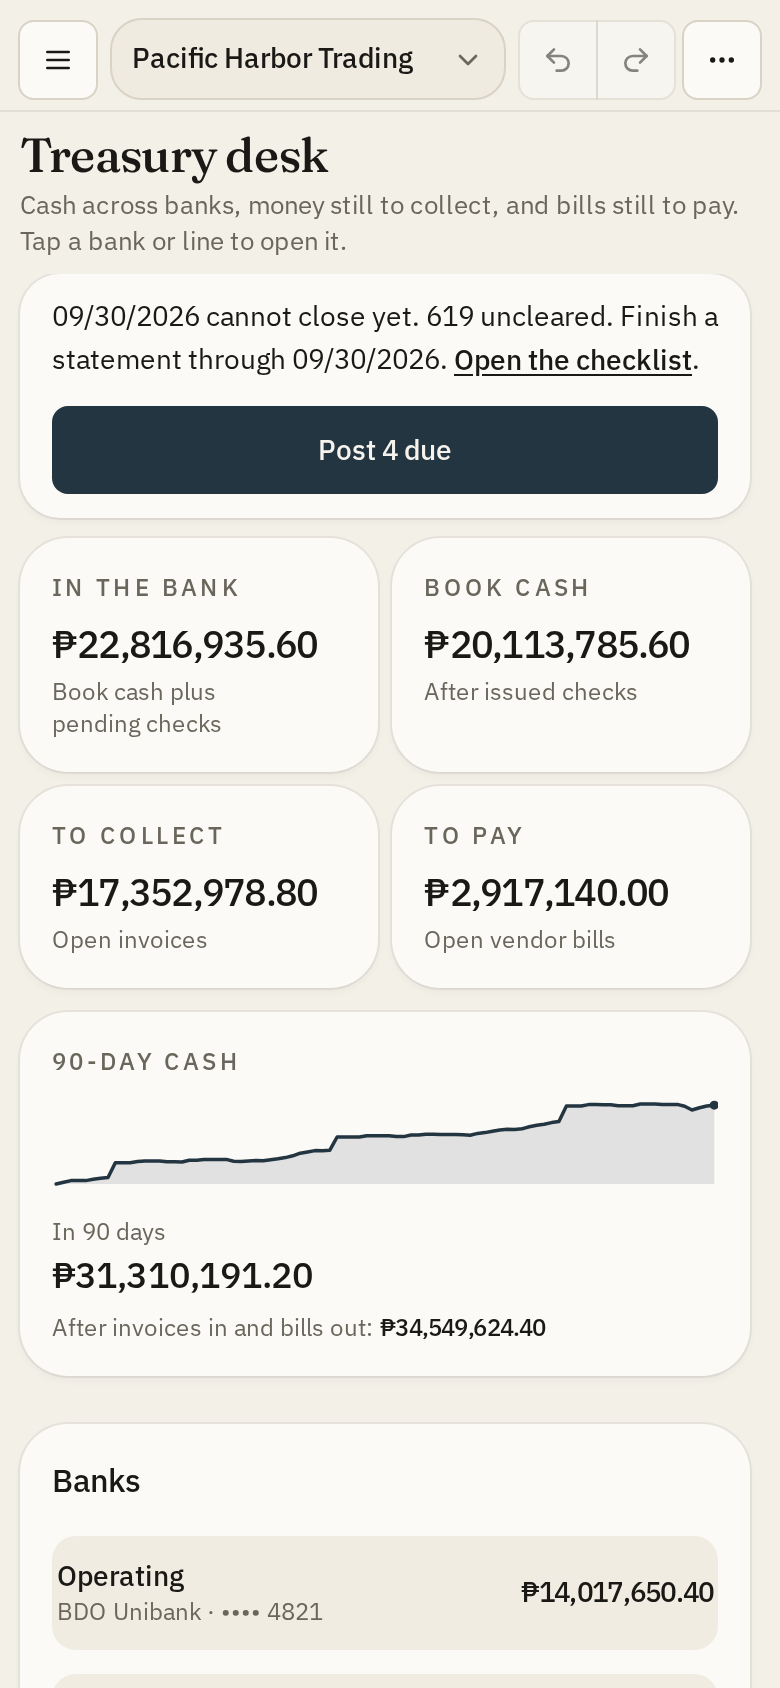
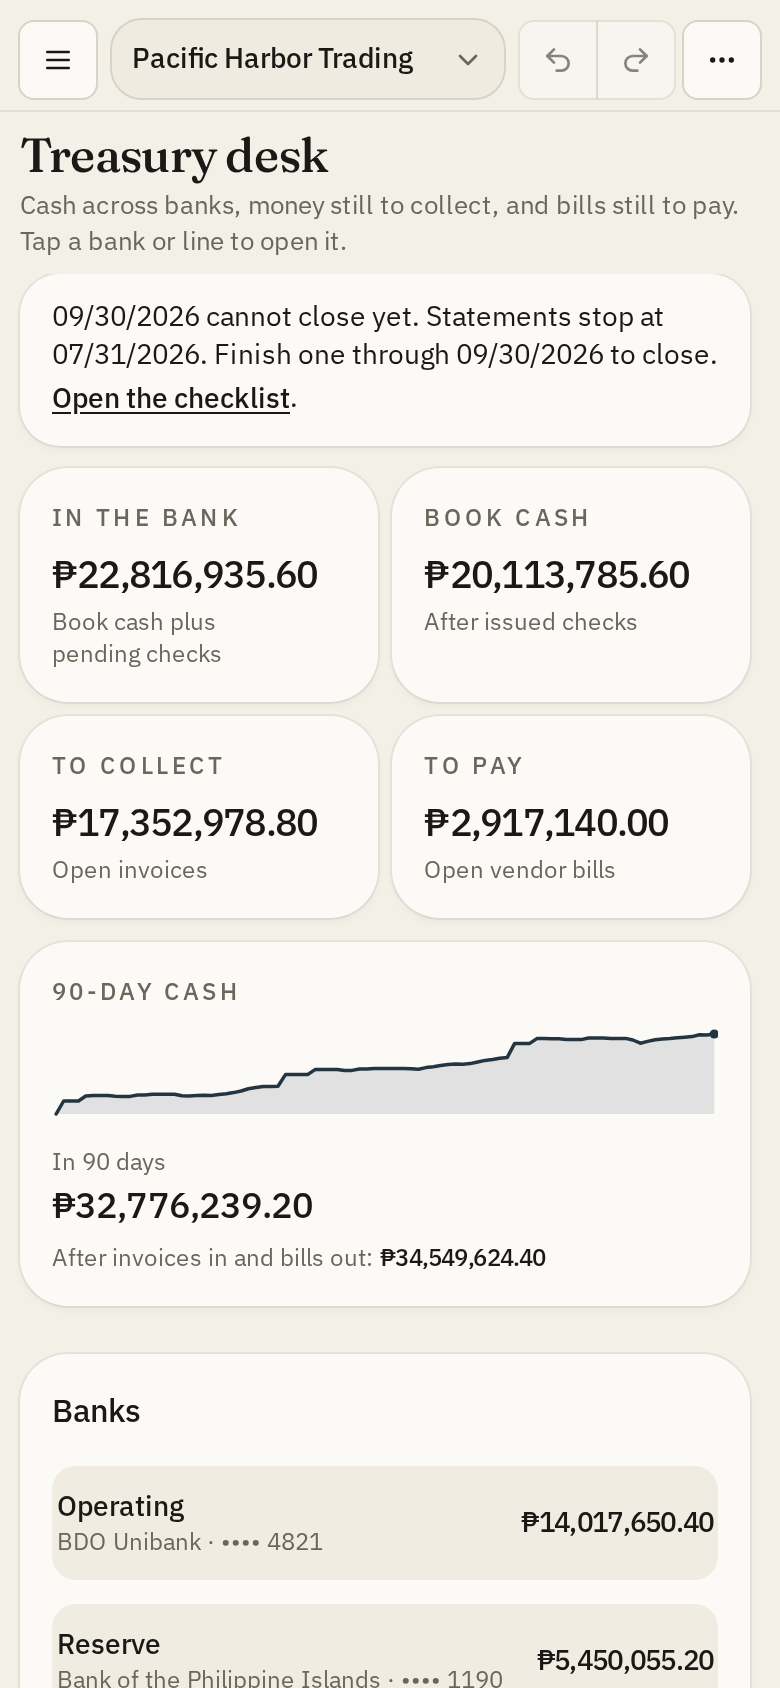
v3.63.58: stop sample double payroll, covered forecast, honest close and Open

diff --git a/src/routes/settings.tsx b/src/routes/settings.tsx
@@ -22,7 +22,7 @@ import { Input } from "@/components/ui/input";
 import { Select, SelectContent, SelectItem, SelectTrigger, SelectValue } from "@/components/ui/select";
 import { Switch } from "@/components/ui/switch";
 import { canPickBackupFolder, chooseBackupFolder, clearBackupFolder, getBackupFolderName, hydrateBackupFolder, saveCompanyFilePreferFolder, useBackupFolderName } from "@/lib/finance/backup-folder";
-import { backupPayload } from "@/lib/finance/export";
+import { backupPayload, parseBackupFile } from "@/lib/finance/export";
 import { listLocalBackups, readLocalBackup } from "@/lib/finance/local-backup";
 import { isOutdatedPacificHarborSample, SAMPLE_COMPANY_ID } from "@/lib/finance/seed";
 import { fitColumnWidth } from "@/lib/finance/fit-column";
@@ -190,6 +190,7 @@ function SettingsPage() {
   const fileRef = useRef<HTMLInputElement>(null);
   const mergeRef = useRef<HTMLInputElement>(null);
   const pendingOpenRef = useRef<string | null>(null);
+  const [openScope, setOpenScope] = useState<"company" | "workspace">("company");
   const [countryPackId, setCountryPackId] = useState("");
   /** When applying a country tax pack, also set home currency to the pack’s currency. */
   const [updateCurrencyWithPack, setUpdateCurrencyWithPack] = useState(true);
@@ -810,10 +811,14 @@ function SettingsPage() {
                 e.target.value = "";
                 if (!file) return;
                 try {
-                  pendingOpenRef.current = await file.text();
+                  const text = await file.text();
+                  const parsed = parseBackupFile(text);
+                  pendingOpenRef.current = text;
+                  setOpenScope(parsed.type);
                   setBooksConfirm({ kind: "open" });
                 } catch (err) {
                   pendingOpenRef.current = null;
+                  setOpenScope("company");
                   toast.error(err instanceof Error ? err.message : "Could not read that file.");
                 }
               }}
@@ -876,7 +881,9 @@ function SettingsPage() {
               : booksConfirm?.kind === "restore"
                 ? "Restore last local copy?"
                 : booksConfirm?.kind === "open"
-                  ? "Replace this company?"
+                  ? openScope === "workspace"
+                    ? "Replace every company?"
+                    : "Replace this company?"
                 : booksConfirm?.kind === "drop" && booksConfirm.id === SAMPLE_COMPANY_ID
                   ? "Remove the sample company?"
                   : "Remove this company?"
@@ -891,7 +898,9 @@ function SettingsPage() {
                   ? `Replaces the open company with the snapshot from ${new Date(localStamp).toLocaleString(undefined, { dateStyle: "medium", timeStyle: "short" })}. If you removed this file, it comes back. A downloaded JSON is not required.`
                   : "This browser has not saved a local copy yet."
                 : booksConfirm?.kind === "open"
-                  ? "Opens that file in place of the company you are in. Banks and entries in this file are replaced. Other companies stay. Merge is the safe import — it only adds records that are not already here."
+                  ? openScope === "workspace"
+                    ? "This file is a workspace backup. It replaces every company in this browser, not just the one you have open. Merge is the safe import — it only adds records that are not already here."
+                    : "Opens that file in place of the company you are in. Banks and entries in this file are replaced. Other companies stay. Merge is the safe import — it only adds records that are not already here."
                 : booksConfirm?.kind === "drop" && booksConfirm.id === SAMPLE_COMPANY_ID
                   ? order.length <= 1
                     ? "Deletes Pacific Harbor from this browser and opens a blank company. Restore last local copy or Reload sample brings it back."
@@ -922,6 +931,7 @@ function SettingsPage() {
         }
         onClose={() => {
           pendingOpenRef.current = null;
+          setOpenScope("company");
           setBooksConfirm(null);
         }}
         onConfirm={async () => {
@@ -948,6 +958,7 @@ function SettingsPage() {
                 const kind = importBackup(json);
                 toast.success(kind === "workspace" ? "Opened companies from that file." : "Company file opened.");
                 pendingOpenRef.current = null;
+                setOpenScope("company");
               }
             } else {
               removeCompany(booksConfirm.id);

diff --git a/src/routes/employees.tsx b/src/routes/employees.tsx
@@ -124,6 +124,9 @@ function EmployeesPage() {
   const payEmployee = useFinanceStore((s) => s.payEmployee);
   const payEmployees = useFinanceStore((s) => s.payEmployees);
   const banks = data.banks.filter((b) => !b.archived);
+  const lumpPayroll = (data.checks ?? []).some(
+    (c) => c.payee === "Staff payroll" && !c.employeeId && c.status !== "voided" && c.status !== "bounced",
+  );
 
   const [query, setQuery] = useState("");
   const [view, setView] = useListView("employees");
@@ -296,7 +299,11 @@ function EmployeesPage() {
   return (
     <AppShell
       title="Employees"
-      description="People on payroll. Keep a roster, set pay type and rate, and post paychecks to a bank — the check lands in Register like any other payment."
+      description={
+        lumpPayroll
+          ? "People on payroll. These books already pay a Staff payroll vendor lump — a paycheck here is a second run, not a replacement."
+          : "People on payroll. Keep a roster, set pay type and rate, and post paychecks to a bank — the check lands in Register like any other payment."
+      }
       actions={
         <>
           <Button
@@ -622,6 +629,7 @@ function EmployeesPage() {
             <DialogTitle>Post paycheck</DialogTitle>
             <DialogDescription>
               Writes a check from the selected bank. Hourly is hours × rate.
+              {lumpPayroll ? " This is in addition to the Staff payroll vendor lump already in the register." : ""}
               {phPayroll
                 ? " PH statutory computes SSS, PhilHealth, Pag-IBIG, and TRAIN withholding for this period."
                 : " Generic net pay only — enable Philippines payroll in Settings for statutory withholdings."}
@@ -689,7 +697,9 @@ function EmployeesPage() {
           <DialogHeader>
             <DialogTitle>Pay all active</DialogTitle>
             <DialogDescription>
-              Posts a period paycheck for each active salaried employee (weekly is 12/52 of monthly, twice a month is half). Hourly people need hours on a single slip.
+              {lumpPayroll
+                ? "These books already pay Staff payroll as a vendor lump. This posts a second set of salaried checks on top of that. Hourly people still need hours on a single slip."
+                : "Posts a period paycheck for each active salaried employee (weekly is 12/52 of monthly, twice a month is half). Hourly people need hours on a single slip."}
               {phPayroll ? " PH statutory is taken from each employee." : ""}
             </DialogDescription>
           </DialogHeader>
@@ -705,7 +715,7 @@ function EmployeesPage() {
             <Button variant="outline" onClick={() => setRunOpen(false)}>
               Cancel
             </Button>
-            <Button onClick={runPayAll}>Post pay run</Button>
+            <Button onClick={runPayAll}>{lumpPayroll ? "Post second run" : "Post pay run"}</Button>
           </DialogFooter>
         </DialogContent>
       </Dialog>

diff --git a/src/lib/finance/seed.test.ts b/src/lib/finance/seed.test.ts
@@ -1,5 +1,7 @@
 import { describe, it } from "node:test";
 import assert from "node:assert/strict";
+import { postDueRecurring } from "./actions.ts";
+import { cashForecast } from "./forecast.ts";
 import { createSeed, isOutdatedPacificHarborSample } from "./seed.ts";
 
 describe("Pacific Harbor sample", () => {
@@ -28,6 +30,22 @@ describe("Pacific Harbor sample", () => {
     const rec = data.recurrences.filter((r) => r.id.startsWith("rec-pay"));
     assert.equal(rec.length, 2);
     assert.ok(rec.every((r) => r.amount === 19_000_000));
+    assert.ok(data.recurrences.every((r) => r.nextDate >= "2027-01-01"), "seeded year is already posted");
+    assert.equal(postDueRecurring(data, "2026-09-30").posted.length, 0);
+  });
+
+  it("does not forecast budget cash that the month already posted", () => {
+    const points = cashForecast(data, 40, "2026-09-27");
+    const oct1 = points.find((p) => p.date === "2026-10-01");
+    assert.ok(oct1);
+    const pending = data.checks
+      .filter((c) => c.status === "pending" && (c.postDate || c.issueDate) === "2026-10-01")
+      .reduce((s, c) => s + c.amount, 0);
+    const bills = data.bills
+      .filter((b) => (b.status === "open" || b.status === "partial") && b.dueDate === "2026-10-01")
+      .reduce((s, b) => s + b.amount, 0);
+    assert.equal(oct1.outflows, pending + bills);
+    assert.ok(oct1.inflows >= 62_000_000, "trade-sales budget still fills a month with no matching invoices");
   });
 
   it("every journal balances", () => {
@@ -62,6 +80,20 @@ describe("Pacific Harbor sample", () => {
         receipts: Array(400),
         checks: Array(500),
         budgetItems: [{ id: "bud-pay", amount: 25_280_000 }],
+      }),
+      true,
+    );
+    assert.equal(
+      isOutdatedPacificHarborSample({
+        customers: Array(39),
+        vendors: Array(30),
+        employees: Array(14),
+        invoices: Array(500),
+        bills: Array(400),
+        receipts: Array(400),
+        checks: Array(500),
+        budgetItems: [{ id: "bud-pay", amount: 38_000_000 }],
+        recurrences: [{ id: "rec-pay1", nextDate: "2026-09-13" }],
       }),
       true,
     );

diff --git a/src/lib/finance/seed.ts b/src/lib/finance/seed.ts
@@ -121,16 +121,22 @@ export function isOutdatedPacificHarborSample(data: {
   receipts: unknown[];
   checks: unknown[];
   budgetItems?: Array<{ id?: string; amount?: number }>;
+  recurrences?: Array<{ id?: string; nextDate?: string }>;
 }): boolean {
   const docs = data.invoices.length + data.bills.length + data.receipts.length + data.checks.length;
   const payrollBudget = data.budgetItems?.find((b) => b.id === "bud-pay");
   const payrollStale = typeof payrollBudget?.amount === "number" && payrollBudget.amount < 38_000_000;
+  const seededRec = new Set(["rec-rent", "rec-pay1", "rec-pay2", "rec-power"]);
+  const recStale = (data.recurrences ?? []).some(
+    (r) => !!r.id && seededRec.has(r.id) && typeof r.nextDate === "string" && r.nextDate < "2027-01-01",
+  );
   return (
     data.customers.length < 35 ||
     data.vendors.length < 28 ||
     data.employees.length < 12 ||
     docs < 1700 ||
-    payrollStale
+    payrollStale ||
+    recStale
   );
 }
 
@@ -1810,7 +1816,7 @@ export function createSeed(): FinanceData {
       accountId: IDS.rent,
       memo: "Monthly warehouse",
       dayOfMonth: 1,
-      nextDate: "2026-09-01",
+      nextDate: "2027-01-01",
       active: true,
     },
     {
@@ -1823,7 +1829,7 @@ export function createSeed(): FinanceData {
       accountId: IDS.payroll,
       memo: "Semi-monthly payroll",
       dayOfMonth: 13,
-      nextDate: "2026-09-13",
+      nextDate: "2027-01-13",
       active: true,
     },
     {
@@ -1836,7 +1842,7 @@ export function createSeed(): FinanceData {
       accountId: IDS.payroll,
       memo: "Semi-monthly payroll",
       dayOfMonth: 27,
-      nextDate: "2026-09-27",
+      nextDate: "2027-01-27",
       active: true,
     },
     {
@@ -1849,7 +1855,7 @@ export function createSeed(): FinanceData {
       accountId: IDS.utilities,
       memo: "Meralco",
       dayOfMonth: 22,
-      nextDate: "2026-09-22",
+      nextDate: "2027-01-22",
       active: true,
     },
   ];

diff --git a/src/lib/finance/forecast.ts b/src/lib/finance/forecast.ts
@@ -14,8 +14,24 @@ function bump(map: Map<string, number>, date: string, amount: number) {
   map.set(date, (map.get(date) ?? 0) + amount);
 }
 
-export function cashForecast(data: FinanceData, days = 90): ForecastPoint[] {
-  const start = todayIso();
+/** True when that month already has a check or an open bill on this account — the budget would count it twice. */
+export function monthAlreadyHasAccountCash(data: FinanceData, accountId: string, month: string): boolean {
+  if (!accountId || month.length < 7) return false;
+  for (const chk of data.checks) {
+    if (chk.accountId !== accountId) continue;
+    if (chk.status === "voided" || chk.status === "bounced") continue;
+    if ((chk.postDate || chk.issueDate || "").slice(0, 7) === month) return true;
+  }
+  for (const bill of data.bills ?? []) {
+    if (bill.accountId !== accountId) continue;
+    if (bill.status !== "open" && bill.status !== "partial") continue;
+    if ((bill.dueDate || bill.date || "").slice(0, 7) === month) return true;
+  }
+  return false;
+}
+
+export function cashForecast(data: FinanceData, days = 90, asOf = todayIso()): ForecastPoint[] {
+  const start = asOf;
   const thisMonth = start.slice(0, 7);
   let cash = totalCash(data) + pendingChecksTotal(data);
   const points: ForecastPoint[] = [];
@@ -45,7 +61,7 @@ export function cashForecast(data: FinanceData, days = 90): ForecastPoint[] {
       for (const item of data.budgetItems) {
         if (item.startMonth > month) continue;
         if (item.kind === "inflow") inflows += item.amount;
-        else outflows += item.amount;
+        else if (!monthAlreadyHasAccountCash(data, item.accountId ?? "", month)) outflows += item.amount;
       }
     }
 

diff --git a/src/routes/reports.tsx b/src/routes/reports.tsx
@@ -821,6 +821,9 @@ function PayrollPanel({
         </table>
         <p className="px-4 py-3 text-xs text-muted-foreground">
           2026 PH statutory from posted paychecks. Use Export 1601-C CSV for the accountant’s remittance worksheet (not eBIRForms XML). {BIR_BOOKS_DISCLAIMER}
+          {p.sss === 0 && p.philhealth === 0 && p.pagibig === 0 && p.wht === 0 && data.checks.some((c) => c.payee === "Staff payroll" && !c.employeeId && c.status !== "voided")
+            ? " These books pay a Staff payroll vendor lump, so these accounts stay at zero until you post employee paychecks."
+            : ""}
         </p>
       </div>
       ) : null}
@@ -830,7 +833,7 @@ function PayrollPanel({
         <div className="border-b border-border px-4 py-3">
           <p className="text-sm font-medium">13th month estimate · {year}</p>
           <p className="mt-1 text-xs text-muted-foreground">
-            Prefer posted paycheck gross ÷ 12. Else salaried pro-rata: monthly rate × months worked ÷ 12 (hire month counts if any day worked). Basic pay only — not OT or allowances. Does not apply the ₱90,000 fringe exclusion or TRAIN year-end annualization. {BIR_BOOKS_DISCLAIMER}
+            Prefer posted paycheck gross ÷ 12. Else salaried pro-rata: monthly rate × months worked ÷ 12 (hire month counts if any day worked). Basic pay only — not OT or allowances. Does not apply the ₱90,000 fringe exclusion or TRAIN year-end annualization. Hourly people stay at zero until a paycheck is posted in their name. A December Staff payroll lump is not this table. {BIR_BOOKS_DISCLAIMER}
           </p>
         </div>
         <table className="text-sm" style={{ width: "100%" }}>

diff --git a/src/lib/finance/close.ts b/src/lib/finance/close.ts
@@ -41,6 +41,7 @@ export function closeChecklist(
   for (const bank of live) {
     const lastRec = lastReconForBank(data, bank.id);
     const last = lastRec?.statementDate ?? "";
+    const stamped = (bank.lastStatementDate ?? "").trim();
     const uncleared = unclearedLines(data, bank.id, through);
     const recd = last !== "" && last >= through;
     const nothing = uncleared.length === 0 && last === "";
@@ -57,7 +58,9 @@ export function closeChecklist(
           ? "No activity — nothing to rec"
           : last
             ? `Last finished ${formatDate(last)}. ${uncleared.length} still uncleared.`
-            : `${uncleared.length} uncleared. Finish a statement through ${formatDate(through)}.`,
+            : stamped
+              ? `Statements stop at ${formatDate(stamped)}. Finish one through ${formatDate(through)} to close.`
+              : `${uncleared.length} uncleared. Finish a statement through ${formatDate(through)}.`,
       href: "/reconcile",
     });
   }

diff --git a/src/components/find-transaction.tsx b/src/components/find-transaction.tsx
@@ -92,6 +92,7 @@ export function FindTransaction({ open, onClose }: { open: boolean; onClose: () 
             className="h-10 min-h-10 border-0 bg-transparent px-0 shadow-none focus-visible:ring-0"
           />
         </div>
+        <p className="px-4 pb-1 text-xs text-muted-foreground">Register only — checks, receipts, transfers, and payments. Not invoices, bills, or people.</p>
         <div className="grid grid-cols-2 gap-2 px-4 py-3">
           <Select value={type} onValueChange={(v) => setType(v as CashTypeFilter)}>
             <SelectTrigger className="h-9 min-h-9" aria-label="Type">

diff --git a/src/routes/forecast.tsx b/src/routes/forecast.tsx
@@ -262,7 +262,7 @@ function ForecastPage() {
   return (
     <AppShell
       title="Cash forecast"
-      description="Ninety-day cash from the bank estimate, pending checks, invoice due dates, then monthly budget items."
+      description="Ninety-day cash from the bank estimate, pending checks, and invoice due dates. A monthly budget fills a month only when that account has no check or open bill already."
       actions={
         <Button onClick={openNew}>
           <Plus />

diff --git a/src/lib/version.ts b/src/lib/version.ts
@@ -1,2 +1,2 @@
-export const APP_VERSION = "3.63.57";
+export const APP_VERSION = "3.63.58";
 export const APP_VERSION_LABEL = `v${APP_VERSION}`;

diff --git a/README.md b/README.md
@@ -1,4 +1,4 @@
-# Finance Manager v3.63.57
+# Finance Manager v3.63.58
 
 Treasury books in a **desktop window**, and in the browser. Banks, receipts, checks, invoices, bills, **employees**, and a **bank register**.
 
@@ -27,6 +27,12 @@ Vite is installed with the packages — no global `vite` command. `.npmrc` has `
 
 After the Windows installer: Desktop has one **Finance Manager** shortcut (navy pillars). Pin that — do not keep leftover `finance-manager` aliases from older builds.
 
+## What's new in v3.63.58
+
+- **Sample payroll no longer double-posts:** Recurring rent, payroll, and power next dates are January 2027 — the 2026 year is already in the books, so Desk does not offer “Post 4 due.” Pay all on a company that already has a Staff payroll lump says it is a second run.
+- **Forecast skips covered months:** A budget outflow is left out of a month that already has a check or an open bill on that account. Trade-sales budget still fills months with no matching invoices.
+- **Close banner and payroll worksheets:** A sample with no finished statement says statements stop at the bank stamp (Jul 31), not “619 uncleared.” Reports say the lump does not fill SSS / PhilHealth / Pag-IBIG, and the 13th-month table is not the December lump. Opening a workspace JSON says it replaces every company.
+
 ## What's new in v3.63.57
 
 - **Staff payroll matches the named employees:** Semi-monthly lump is ₱190,000 (₱380,000 a month, plus 13th). Existing Pacific Harbor files with the old ₱252,800 budget get the Reload sample callout.
@@ -38,11 +44,6 @@ After the Windows installer: Desktop has one **Finance Manager** shortcut (navy 
 ## What's new in v3.63.56
 
 - **Finalize pass:** Recaptured README gallery against the mid-size Pacific Harbor sample. README changelog is this release plus the two before it — older notes stay in [docs/BUGS-AND-IMPROVEMENTS.md](docs/BUGS-AND-IMPROVEMENTS.md). Dead Options-density React store dropped; Comfortable boot script remains.
-
-## What's new in v3.63.55
-
-- **Compact remnant trim:** Options density stays gone. Force-Comfortable boot remains (clears old Compact localStorage). Unreachable Compact CSS token overrides and dead `isCompact` virt paths removed — spacing is Comfortable-only.
-- **Reload sample for existing profiles:** Options jump includes Sample; outdated/missing Pacific Harbor gets a clear callout and a emphasized Reload sample control. Confirm copy and toast match `resetDemo` (replaces the sample file with the mid-size seed; other companies stay).
 
 Older point-release notes live in [docs/BUGS-AND-IMPROVEMENTS.md](docs/BUGS-AND-IMPROVEMENTS.md).
 

diff --git a/docs/BUGS-AND-IMPROVEMENTS.md b/docs/BUGS-AND-IMPROVEMENTS.md
@@ -1,6 +1,18 @@
 # Finance Manager — bugs & improvements (v3.63)
 
-Re-verified in code 2026-09-20. Updated for v3.63.57.
+Re-verified in code 2026-09-27. Updated for v3.63.58.
+
+## Fixed in v3.63.58
+
+| # | Severity | Issue | Fix |
+| --- | --- | --- | --- |
+| P1 | High | Pay all on the sample posted a second payroll on top of the Staff payroll lump | Employees copy and Pay all button say it is a second run |
+| P2 | High | Recurrences still due in Sep 2026 after the whole year was seeded | Next dates are Jan 2027; Desk no longer offers Post 4 due; old files get Reload sample |
+| P3 | Med | 90-day forecast added monthly budget on top of checks already in that month | Skip an outflow budget when that account already has a check or open bill that month |
+| P4 | Med | PH remittance and 13th-month table looked like nobody was paid | Payroll tab says the vendor lump does not fill those accounts or the 13th table |
+| P6 | Med | Desk close banner led with “619 uncleared” | No finished statement: “Statements stop at” the bank stamp |
+| P7 | Med | Workspace Open confirm talked about this company only | Title and body say every company is replaced |
+| P10 | Low | Find looked like it searched the whole company | Visible “Register only” line |
 
 ## Fixed in v3.63.57
 
